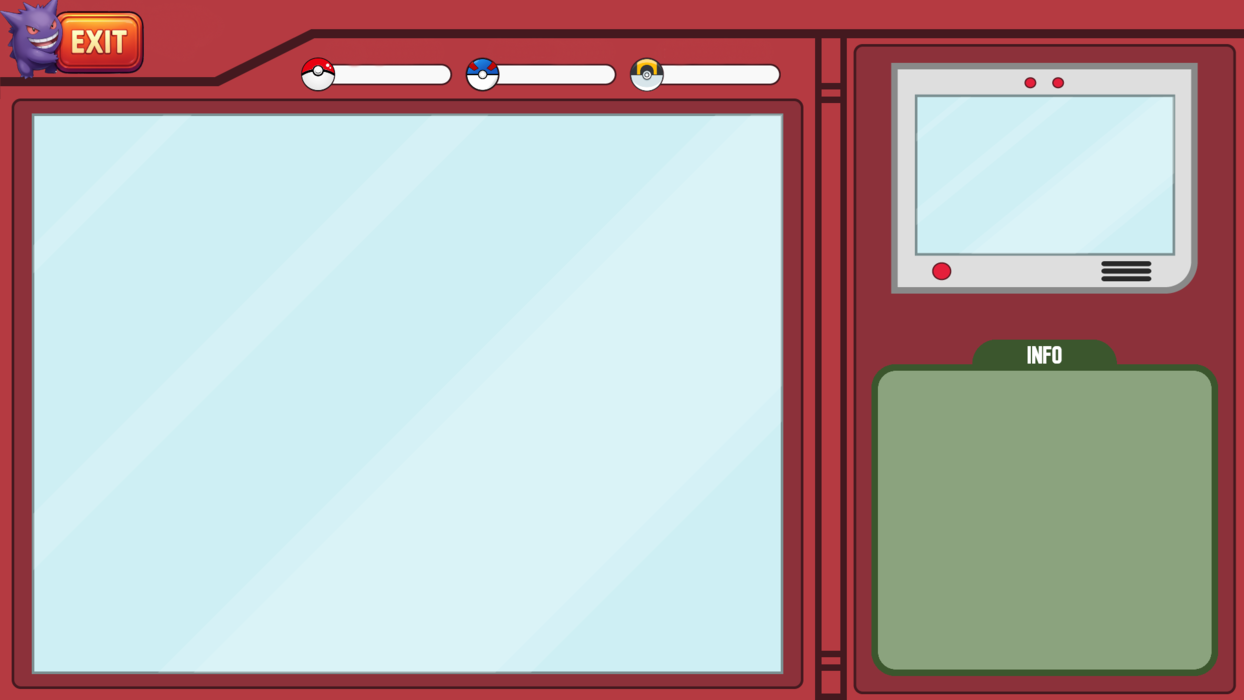
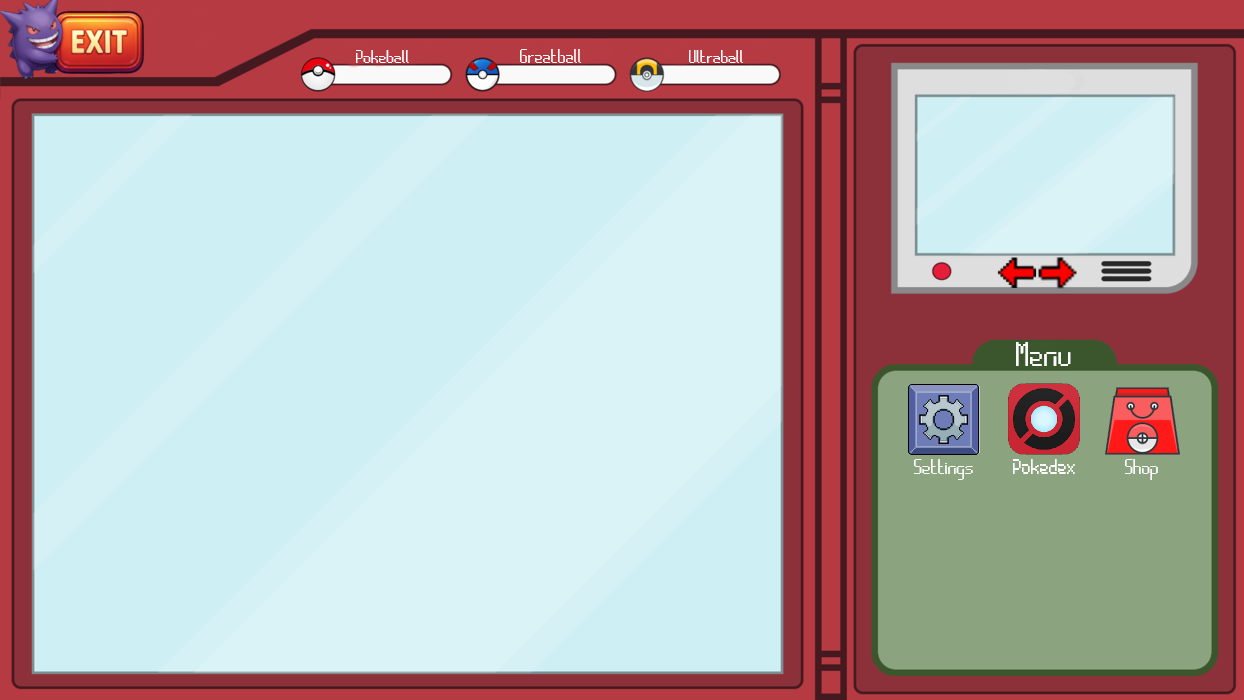
Papildināts pokedexa funkcija

diff --git a/src/poke/pokemon.java b/src/poke/pokemon.java
@@ -8,15 +8,26 @@ import javax.swing.JPanel;
 import javax.swing.WindowConstants;
 
 public class pokemon {
-	
 	//main panel size 751x565
-	//main panel location 32x109
+		//main panel location 32x109
+	
+	static JLabel pokedex(String txt) {
+		ImageIcon poke = new ImageIcon("bildes/"+txt);
+		JLabel bilde= new JLabel(poke);
+		return bilde;
+	}
 	
 	public static void main(String[] args) {
 		//main frame
 		JFrame main = new JFrame();
 		main.setLocation(150, 50);
 		main.setSize(1244, 700);
+		main.setDefaultCloseOperation(WindowConstants.EXIT_ON_CLOSE);
+		
+		ImageIcon icon = new ImageIcon("bildes/pokeframe.png");
+		JLabel background = new JLabel(icon);
+		main.setContentPane(background);
+		main.setUndecorated(true);
 		
 		//main panel
 		JPanel panel = new JPanel();
@@ -30,49 +41,118 @@ public class pokemon {
 		Sgif.setSize(751, 560);
 		panel.add(Sgif);
 		
-		
-		
+		//pokemon type panel
 		JPanel Pokemon = new JPanel();
 		Pokemon.setSize(260, 165);
 		Pokemon.setLocation(915, 90);
-	
-		ImageIcon bulb = new ImageIcon("bildes/Bulbasaur.png");
-		JLabel Bulbasaur = new JLabel(bulb);
-		Bulbasaur.setSize(260, 167);
-		Pokemon.add(Bulbasaur);
 		Pokemon.setOpaque(false);
 		
 		
-		JPanel menu = new JPanel();
-		menu.setSize(332, 298);
-		menu.setLocation(879, 371);
-		menu.setOpaque(false);
-		
-		
-		
-		
-		
-		ImageIcon icon = new ImageIcon("bildes/pokeframe.png");
-		JLabel background = new JLabel(icon);
-		main.setContentPane(background);
-		main.setUndecorated(true);
-		
+		//stop button
 		JButton Stop = new JButton();
-		Stop.setSize(1000, 1000);
-		main.setDefaultCloseOperation(WindowConstants.EXIT_ON_CLOSE);
-		main.add(Stop);
-		Stop.setLocation(10, 10);
+		Stop.setSize(84, 60);
+		Stop.setLocation(58, 12);
 		Stop.setOpaque(false);
 		Stop.setContentAreaFilled(false);
 		Stop.setBorderPainted(false);
 		Stop.addActionListener(e -> System.exit(0));
 		
+		//pokedex button
+		JButton Pokedex = new JButton();
+		Pokedex.setSize(84, 60);
+		Pokedex.setLocation(200, 12);
+		String[] pokemoni = {"Squirtle1.png", "Lick1.gif", };
+		String[] type = {"Sqrt.png"};
+		Pokedex.addActionListener(e -> {
+			panel.removeAll();
+			
+			JButton nak = new JButton();
+			nak.setSize(38, 30);
+			nak.setLocation(1038, 257);
+			nak.setOpaque(false);
+			main.add(nak);
+			
+			int[] skaits = {0};
+			JLabel pirmais = pokedex(type[skaits[0]]);
+			pirmais.setSize(260, 167);
+			Pokemon.add(pirmais);
+			
+			nak.addActionListener(ev -> {
+				Pokemon.removeAll();
+				Pokemon.revalidate();
+				Pokemon.repaint();
+				panel.removeAll();
+				
+				skaits[0]++;
+				if (skaits[0]>pokemoni.length-1) {
+					skaits[0]=0;
+				}
+				
+				JLabel bildit = pokedex(pokemoni[skaits[0]]);
+				bildit.setSize(260, 167);
+				Pokemon.add(bildit);
+				panel.revalidate();
+				panel.repaint();
+				
+			});
+			JButton iepr = new JButton();
+			iepr.setSize(100, 50);
+			iepr.setLocation(300, 100);
+			main.add(iepr);
+			iepr.addActionListener(ev -> {
+				Pokemon.removeAll();
+				Pokemon.revalidate();
+				Pokemon.repaint();
+				panel.removeAll();
+				
+				skaits[0]--;
+				if (skaits[0]<0) {
+					skaits[0]=pokemoni.length-1;
+				}
+				
+				JLabel bildit = pokedex(pokemoni[skaits[0]]);
+				bildit.setSize(260, 167);
+				Pokemon.add(bildit);
+				panel.revalidate();
+				panel.repaint();
+				
+			});
+			
+			JLabel bildit = pokedex("Bulbasaur");
+			bildit.setSize(260, 167);
+			Pokemon.add(bildit);
+			panel.revalidate();
+			panel.repaint();
+			
+		});
+		//home button
+		JButton Home = new JButton();
+		Home.setSize(84, 60);
+		Home.setLocation(342, 12);
+		Home.addActionListener(e -> {
+			
+			panel.removeAll();
+			panel.add(Sgif);
+			panel.revalidate();
+			panel.repaint();
+			Pokemon.removeAll();
+			Pokemon.revalidate();
+			Pokemon.repaint();
+	
+		});
 		
+		
+		
+		
+		
+		
+		
+		
+		main.add(Stop);
 		main.add(panel);
-		main.add(menu);
 		main.add(Pokemon);
-		
-		
+		main.add(Pokedex);
+		main.add(Home);
 		
 		main.setVisible(true);
 		
